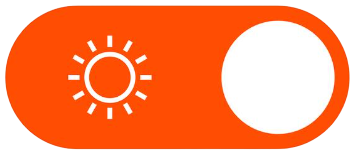
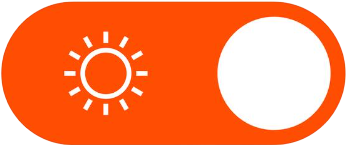
border color added to toggle button

diff --git a/styles.css b/styles.css
@@ -191,14 +191,18 @@ width: min-content; */
     display: flex;
     justify-content: flex-end;
     width: 100%;
-    bottom: calc(4 * var(--spacing-regular));
+    bottom: calc(4 * var(--spacing-regular) + 1px);
     padding: 0;
 }
 
 .theme-change-button{
     position: relative;
-    right: var(--spacing-regular);
-    border-radius: 25%;
+    border: 1px solid;
+    border-color: black;
+    /* border-radius: 25%; */
+    cursor: pointer;
+    right: calc( 2px + var(--spacing-regular));
+    border-radius: 60px;
     opacity: 75%;
 }
 
@@ -211,6 +215,7 @@ width: min-content; */
         "hourly hourly fiveday fiveday"
         "feelslike humidity fiveday fiveday";
     }
+
     body{
         max-width: calc(800px - (2 * var(--spacing-regular))); /* for margin in both sides */
     }

diff --git a/theme.js b/theme.js
@@ -3,8 +3,8 @@ document.addEventListener("DOMContentLoaded", () => {
     const switchTheme = () => {
             document.body.classList.toggle("light-theme");
             const themeButton = document.querySelector(".theme-change-button")
-            console.log(themeButton.src);
             themeButton.src = (document.body.classList.contains("light-theme")) ? "images/toggle_light.png" : "images/toggle_dark.png" ;
+            themeButton.style.borderColor = (document.body.classList.contains("light-theme")) ? "black" : "White" ;
     }
 
     const themeSwitcher = document.querySelector(".theme-change-button");

diff --git a/index.html b/index.html
@@ -64,6 +64,8 @@
         <section id="theme">
             <img class="theme-change-button" src="images/toggle_light.png" alt="" width="70px">
         </section>
+    </section>
+    <!-- theme -->
     </main>
 </body>
 </html>
